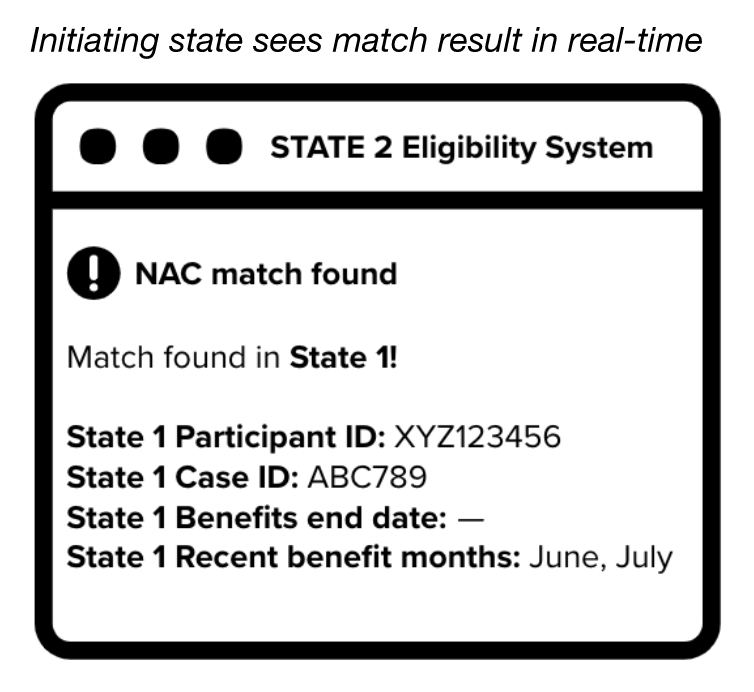
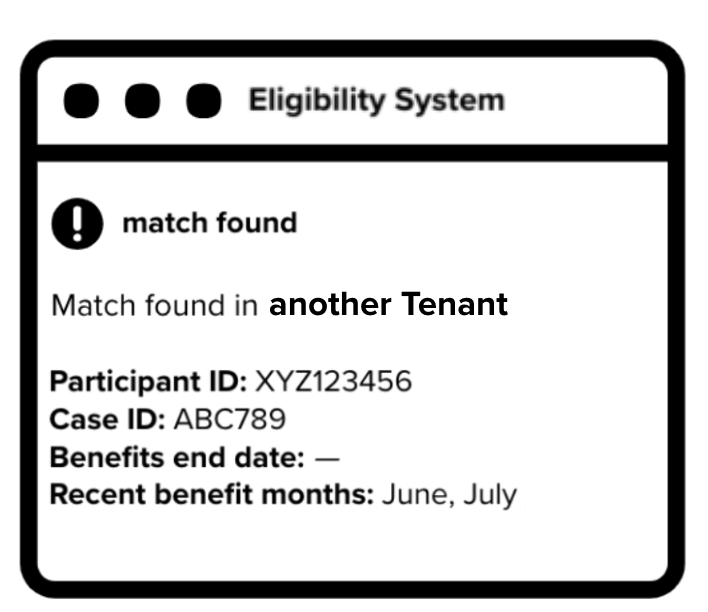
Update main Readme to remove some reference to USDA and updated diagram removing references to states

diff --git a/README.md b/README.md
@@ -6,22 +6,22 @@
 *A privacy-preserving system for storing and matching de-identified Personal Identifiable Information (PII) records.*
 
 ## Quick links
-- [Quickstart Guide for States](./docs/quick-start-guide-states.md)
+- [Quickstart Guide for Tenants](./docs/quick-start-guide-states.md)
 - [High-level architecture diagram](./docs/diagrams/piipan-architecture.png)
 
 ## Overview
 
-Piipan is a reference model for program integrity initiatives that aim to prevent multiple enrollment in federally-funded, but state-managed benefit programs. It is the open-source foundation for the [USDA Food and Nutrition Service](https://www.fns.usda.gov) National Accuracy Clearinghouse (NAC), a congressionally mandated matching system for the [Supplemental Nutrition Assistance Program (SNAP)](https://www.fns.usda.gov/snap/supplemental-nutrition-assistance-program).
+Piipan is a reference model for privacy-preserving systems that store and match de-identified Personal Identifiable Information (PII) records across multiple tenants. This allows finding matches between different data sources without revealing the individuals' identities.
 
 Under this model:
-1. State eligibility systems share *de-identified* participant data to Piipan daily
+1. Tenant systems share *de-identified* participant data to Piipan daily
 
 <p align="center">
   <a href="./docs/diagrams/daily-snapshots.png"><img src="./docs/diagrams/daily-snapshots.png" alt="De-identified participant data" width="60%"></a>
   <!-- Google Slides: https://docs.google.com/presentation/d/1Lctqx9EuGvC9M5PGgQK6zXSiMfUWyafaX00KlZDhx4c/edit#slide=id.gbbca7102b2_0_175 -->
 </p>
 
-2. Duplicate participation is prevented by using Piipan to search for matches during eligibility (re)certification
+2. Duplicate participation is prevented by using Piipan to search for matches
 
 <p align="center">
   <a href="./docs/diagrams/prevent-duplicate-enrolment.png"><img src="./docs/diagrams/prevent-duplicate-enrolment.png" alt="De-identified participant data" width="80%"></a>
@@ -31,15 +31,9 @@ Under this model:
 Paramount quality attributes of this system include:
 * Preserving the privacy of program participants
 * Accuracy of matches
-* Adaptability to multiple benefit programs
+* Adaptability to multiple programs
 
-[Sec. 4011 of the 2018 Farm Bill](https://www.congress.gov/bill/115th-congress/house-bill/2/text), *Interstate data matching to prevent multiple issuances*, further guides our work, mandating that the information made available by state agencies:
-* Shall be used only for the purpose of preventing multiple enrollment
-* Shall not be retained for longer than is necessary
-
-To achieve this product vision, Piipan incorporates a Privacy-Preserving Record Linkage (PPRL) technique to de-identify the PII of program participants at the state-level. Please see our [high-level treatment](./docs/pprl-plain.md) and our [technical specification](./docs/pprl.md) for more details.
-
-**Note**: Our documentation will sometimes use the terms Piipan and NAC interchangeably. However, more precisely, Piipan is our [open-source product available on GitHub](https://github.com/18F/piipan), while the NAC is a deployment of that product, configured specifically for the Food and Nutrition Service, and operated under their policies and regulations. 
+To achieve this, Piipan incorporates a Privacy-Preserving Record Linkage (PPRL) technique to de-identify the PII of program participants. Please see our [high-level treatment](./docs/pprl-plain.md) and our [technical specification](./docs/pprl.md) for more details.
 
 ## Documentation
 
